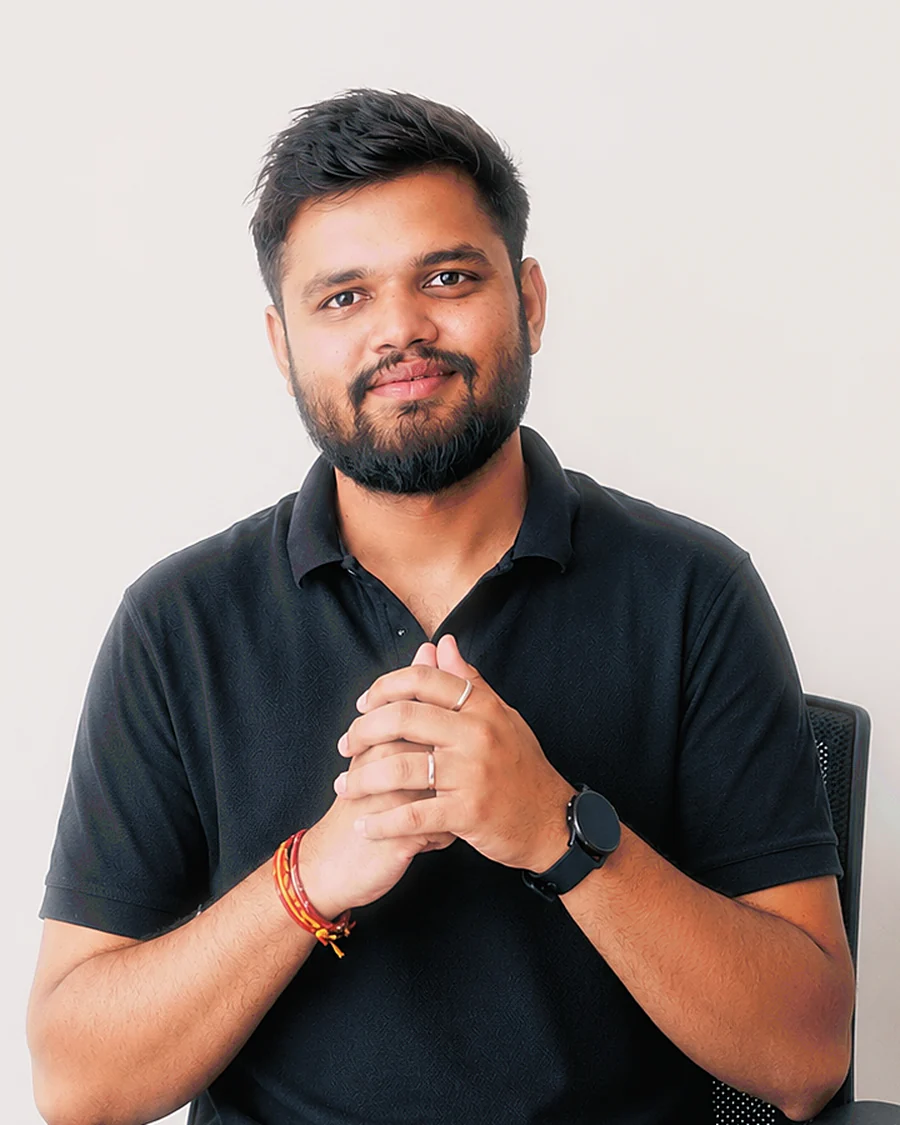
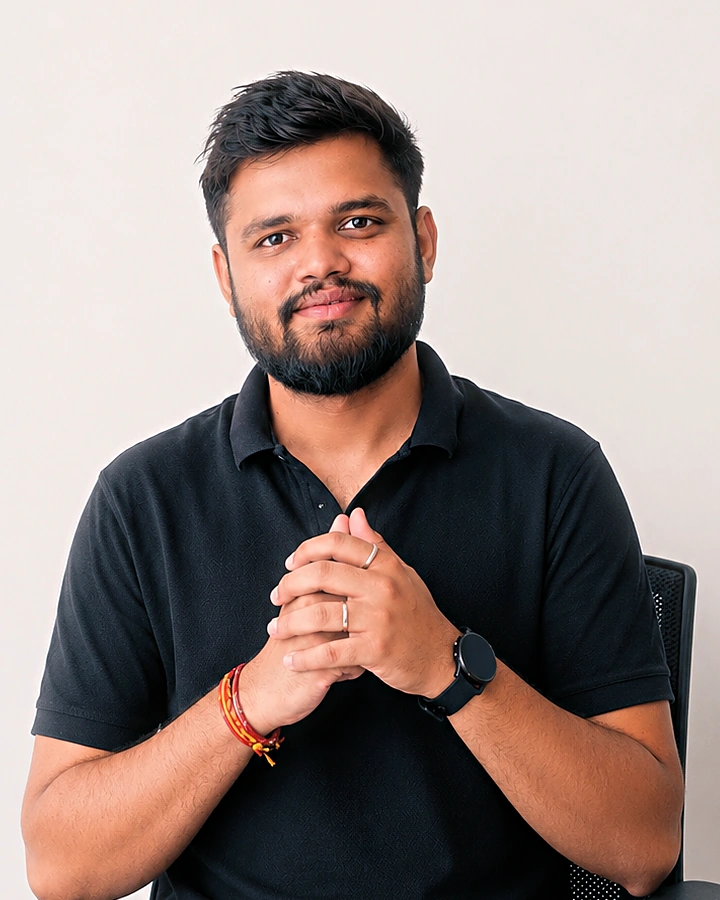
Blog images, crisp portraits, region-neutral agency copy
Blog:
- Posts now carry a hero image (frontmatter `image`) shown on the post page
  (21:9) and as the list thumbnail; renderer supports inline
  ![caption](image_name) figures with styled captions
- Images come only from the existing licence-free library in public/images —
  authoring rules updated, and the cloud blog routine's prompt updated to
  pick a topical hero + 1-2 inline figures per post
- Seed post updated with hero + two inline figures; per-post OG image added

Portraits:
- Blur cause: next/image was re-encoding the WebP at q75 (often AVIF),
  visibly softening the face. Media gains an `unoptimized` prop; hero and
  about portraits now serve the source file directly
- Both re-exported at q95 with two-stage sharpening (fine detail + clarity),
  native crop resolution

Copy:
- About: "agencies charge ₹50K/month" → "agencies charge heavily for paid
  campaigns" — pricing varies by client and country, so no fixed figure

diff --git a/app/blog/page.tsx b/app/blog/page.tsx
@@ -3,6 +3,7 @@ import Link from "next/link";
 import Header from "@/components/layout/Header";
 import Footer from "@/components/layout/Footer";
 import Card from "@/components/ui/Card";
+import Media from "@/components/ui/Media";
 import { getAllPosts } from "@/lib/blog";
 
 export const metadata: Metadata = {
@@ -49,7 +50,16 @@ export default function BlogPage() {
           <div className="flex flex-col gap-4 reveal">
             {posts.map((p) => (
               <Link key={p.slug} href={`/blog/${p.slug}`} className="group">
-                <Card className="p-6 md:p-7 hover:-translate-y-1 hover:border-primary/25 transition-all duration-[250ms]">
+                <Card className="p-0 overflow-hidden hover:-translate-y-1 hover:border-primary/25 transition-all duration-[250ms]">
+                  <div className="flex flex-col md:flex-row">
+                  <Media
+                    src={p.image}
+                    alt={p.title}
+                    className="w-full md:w-[280px] h-[180px] md:h-auto md:self-stretch flex-none"
+                    sizes="(max-width: 768px) 100vw, 280px"
+                    zoomOnHover
+                  />
+                  <div className="p-6 md:p-7 flex-1">
                   <div className="flex items-center gap-3 text-[12px] text-text-muted mb-2">
                     <span>{fmt(p.date)}</span>
                     <span aria-hidden="true">·</span>
@@ -64,6 +74,8 @@ export default function BlogPage() {
                   <span className="inline-block text-[13px] font-semibold text-primary mt-4">
                     Read the breakdown →
                   </span>
+                  </div>
+                  </div>
                 </Card>
               </Link>
             ))}

diff --git a/lib/blog.ts b/lib/blog.ts
@@ -15,6 +15,7 @@ export interface PostMeta {
   description: string;
   date: string; // YYYY-MM-DD
   keyword: string;
+  image: string; // name of a file in /public/images (no extension)
   readMinutes: number;
 }
 
@@ -72,6 +73,17 @@ export function renderMarkdown(md: string): string {
     const t = line.trim();
     if (!t) { flushPara(); flushList(); continue; }
 
+    const img = t.match(/^!\[([^\]]*)\]\(([^)\s]+)\)$/);
+    if (img) {
+      flushPara(); flushList();
+      const src = img[2].startsWith("/") ? img[2] : `/images/${img[2]}.webp`;
+      out.push(
+        `<figure><img src="${src}" alt="${img[1]}" loading="lazy" />` +
+          (img[1] ? `<figcaption>${img[1]}</figcaption>` : "") +
+          `</figure>`
+      );
+      continue;
+    }
     const h3 = t.match(/^### (.+)/);
     const h2 = t.match(/^## (.+)/);
     const li = t.match(/^[-*] (.+)/);
@@ -115,6 +127,7 @@ export function getAllPosts(): PostMeta[] {
         description: meta.description ?? "",
         date: meta.date ?? "1970-01-01",
         keyword: meta.keyword ?? "",
+        image: meta.image ?? "work_dashboard",
         readMinutes: Math.max(2, Math.round(body.split(/\s+/).length / 220)),
       };
     })
@@ -132,6 +145,7 @@ export function getPost(slug: string): Post | null {
     description: meta.description ?? "",
     date: meta.date ?? "1970-01-01",
     keyword: meta.keyword ?? "",
+    image: meta.image ?? "work_dashboard",
     readMinutes: Math.max(2, Math.round(body.split(/\s+/).length / 220)),
     html: renderMarkdown(body),
   };

diff --git a/app/blog/[slug]/page.tsx b/app/blog/[slug]/page.tsx
@@ -4,6 +4,7 @@ import { notFound } from "next/navigation";
 import Header from "@/components/layout/Header";
 import Footer from "@/components/layout/Footer";
 import Button from "@/components/ui/Button";
+import Media from "@/components/ui/Media";
 import { getAllPosts, getPost } from "@/lib/blog";
 
 export function generateStaticParams() {
@@ -22,7 +23,12 @@ export async function generateMetadata({
     title: post.title,
     description: post.description,
     alternates: { canonical: `/blog/${post.slug}` },
-    openGraph: { title: post.title, description: post.description, type: "article" },
+    openGraph: {
+      title: post.title,
+      description: post.description,
+      type: "article",
+      images: [{ url: `/images/${post.image}.webp`, width: 1200, height: 800 }],
+    },
   };
 }
 
@@ -81,6 +87,15 @@ export default async function PostPage({
         </section>
 
         <section className="py-12 md:py-16">
+          <div className="w-full max-w-[820px] mx-auto px-4 sm:px-6 lg:px-10 mb-10">
+            <Media
+              src={post.image}
+              alt={post.title}
+              className="aspect-[21/9] rounded-card shadow-card"
+              sizes="(max-width: 820px) 100vw, 820px"
+              priority
+            />
+          </div>
           <div
             className="prose-post w-full max-w-[760px] mx-auto px-4 sm:px-6 lg:px-10"
             dangerouslySetInnerHTML={{ __html: post.html }}

diff --git a/app/about/page.tsx b/app/about/page.tsx
@@ -91,8 +91,8 @@ export default function AboutPage() {
                   The 1-line story
                 </span>
                 <p className="text-[16px] md:text-[18px] font-semibold text-text-primary leading-snug">
-                  I watched agencies charge ₹50K/month and hand business owners a PDF full of &ldquo;reach&rdquo; —
-                  so I built the clarity they should have given you from day one.
+                  I watched agencies charge heavily for paid campaigns and hand business owners a PDF
+                  full of &ldquo;reach&rdquo; — so I built the clarity they should have given you from day one.
                 </p>
               </div>
 
@@ -133,6 +133,7 @@ export default function AboutPage() {
                   className="aspect-[4/5] rounded-[22px] shadow-card"
                   sizes="(max-width: 768px) 90vw, 420px"
                   priority
+                  unoptimized
                 />
                 {/* Overlapping dashboard card */}
                 <div className="absolute bottom-0 -left-4 sm:-left-8 w-[62%] rounded-[18px] border-4 border-white shadow-card overflow-hidden">

diff --git a/components/ui/Media.tsx b/components/ui/Media.tsx
@@ -15,6 +15,9 @@ interface MediaProps {
   overlay?: boolean;
   /** subtle zoom on hover of the nearest `.group` ancestor */
   zoomOnHover?: boolean;
+  /** serve the source file as-is — skips next/image re-compression.
+      Use for portraits where AVIF/WebP q75 re-encoding visibly softens faces. */
+  unoptimized?: boolean;
 }
 
 /**
@@ -32,6 +35,7 @@ export default function Media({
   priority = false,
   overlay = false,
   zoomOnHover = false,
+  unoptimized = false,
 }: MediaProps) {
   return (
     <div className={cn("relative overflow-hidden bg-bg-light", className)}>
@@ -41,6 +45,7 @@ export default function Media({
         fill
         sizes={sizes}
         priority={priority}
+        unoptimized={unoptimized}
         className={cn(
           "object-cover",
           zoomOnHover &&

diff --git a/app/globals.css b/app/globals.css
@@ -82,3 +82,6 @@
 .prose-post blockquote { @apply border-l-4 border-primary bg-primary/[.06] rounded-r-xl px-5 py-3 mb-5; }
 .prose-post blockquote p { @apply mb-0 text-text-primary font-medium; }
 .prose-post hr { @apply border-border my-10; }
+.prose-post figure { @apply my-8; }
+.prose-post figure img { @apply w-full rounded-card shadow-card; }
+.prose-post figcaption { @apply text-[12.5px] text-text-muted mt-2.5 text-center; }

diff --git a/app/page.tsx b/app/page.tsx
@@ -235,6 +235,7 @@ export default function Home() {
                   className="aspect-[4/5] rounded-[22px] shadow-card"
                   sizes="(max-width: 768px) 90vw, 420px"
                   priority
+                  unoptimized
                 />
               </div>
             </div>

diff --git a/content/blog/why-are-my-facebook-ads-not-working.md b/content/blog/why-are-my-facebook-ads-not-working.md
@@ -3,6 +3,7 @@ title: Why Are My Facebook Ads Not Working? 9 Fixes From 77 Real Ad Accounts
 description: The 9 reasons Facebook ads fail, taken from 77 real ad accounts and ₹73.5L (~$88K) of spend — with the exact fix for each one.
 date: 2026-08-02
 keyword: why are my facebook ads not working
+image: work_dashboard
 ---
 
 I've managed 77 ad accounts and ₹73.5L (~$88K) of spend across clinics, restaurants, D2C brands, resorts and entertainment venues. When a business owner tells me "Facebook ads don't work for us," the account almost always shows one of the same nine problems.
@@ -14,6 +15,8 @@ Here they are, with what each one looks like in your Ads Manager and what I actu
 The most expensive mistake I've ever audited: a venue running a **Sales** objective when they wanted leads. Cost per lead: ₹21,691 (~$260). We rebuilt the same audience and creative as an instant-form lead campaign — cost per lead fell to ₹45 (~$0.54).
 
 Meta optimises for exactly what you ask. Ask for the wrong thing and it delivers the wrong thing, efficiently.
+
+![Reading the numbers in Ads Manager is where every fix starts.](work_charts)
 
 ## 2. Optimising for clicks when you sell offline
 
@@ -48,6 +51,8 @@ This one hurts the most. A nightlife venue was generating leads at ₹2,264 (~$2
 In my own portfolio I've killed campaigns at 0.11× ROAS and walked a client out of a call campaign that had burned ₹4.79L (~$5,700) at ₹3,043 per conversion. Every account has losers. The difference between profitable and unprofitable accounts is how fast someone notices and stops them. I publish mine — wins and write-offs — on the [results page](/results).
 
 ---
+
+![The fix is usually in the account, not the platform.](work_analytics)
 
 ## The pattern behind all nine
 

diff --git a/content/blog/README.md b/content/blog/README.md
@@ -10,14 +10,23 @@ title: Why Are My Facebook Ads Not Working? 9 Fixes From 77 Real Ad Accounts
 description: Meta description, ≤155 chars, plainspoken, includes the target keyword.
 date: 2026-08-02
 keyword: why are my facebook ads not working
+image: work_dashboard
 ---
 ```
+
+`image` is the post's hero/thumbnail. It must be the name (no extension) of an
+existing file in `public/images/` — run `ls public/images/*.webp` and pick the
+most topical. All of these are licence-free (Unsplash) — do NOT hotlink or
+download anything external.
 
 ## Markdown subset (the renderer supports ONLY this)
 
 `## H2`, `### H3`, paragraphs, `**bold**`, `*italic*`,
-`[link](/learn)`, `- bullet`, `1. numbered`, `> quote`, `---` rule.
-No images, tables, code fences, or raw HTML — they will render as plain text.
+`[link](/learn)`, `- bullet`, `1. numbered`, `> quote`, `---` rule, and
+inline images on their OWN line: `![caption](image_name)` where `image_name`
+is a file from `public/images/` (no extension). Use 1–2 inline images per post
+at natural section breaks; the caption renders under the image, so make it a
+real sentence. No tables, code fences, or raw HTML — they render as plain text.
 
 ## Voice rules (from marketing/BRAND.md — non-negotiable)
 
